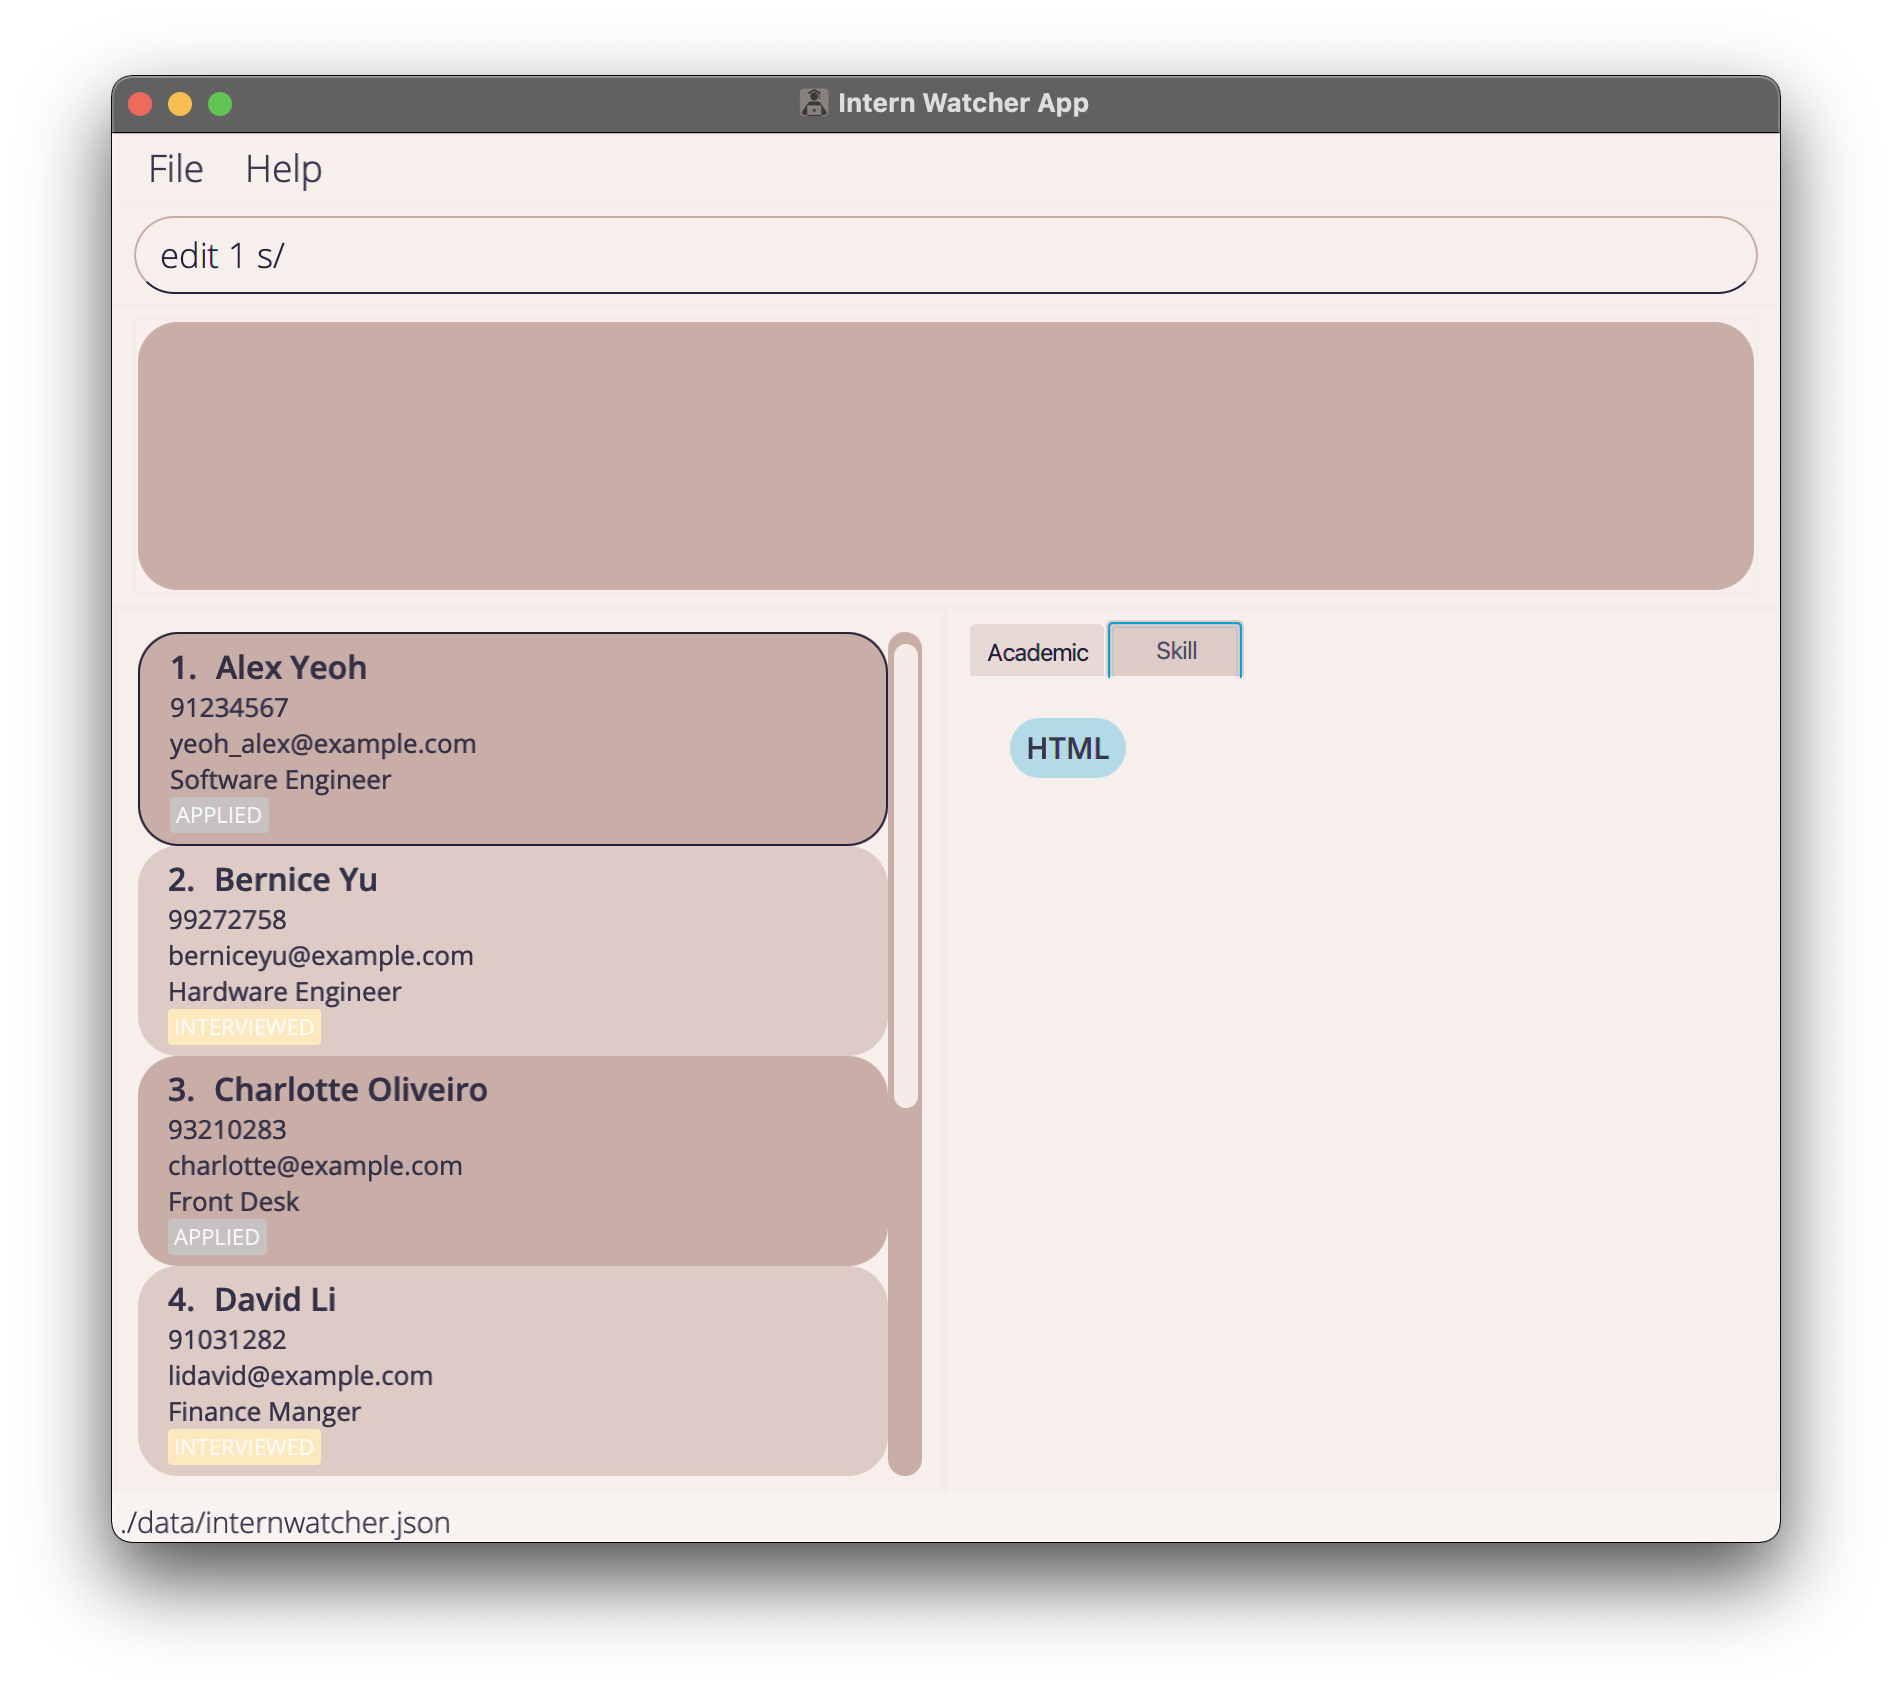
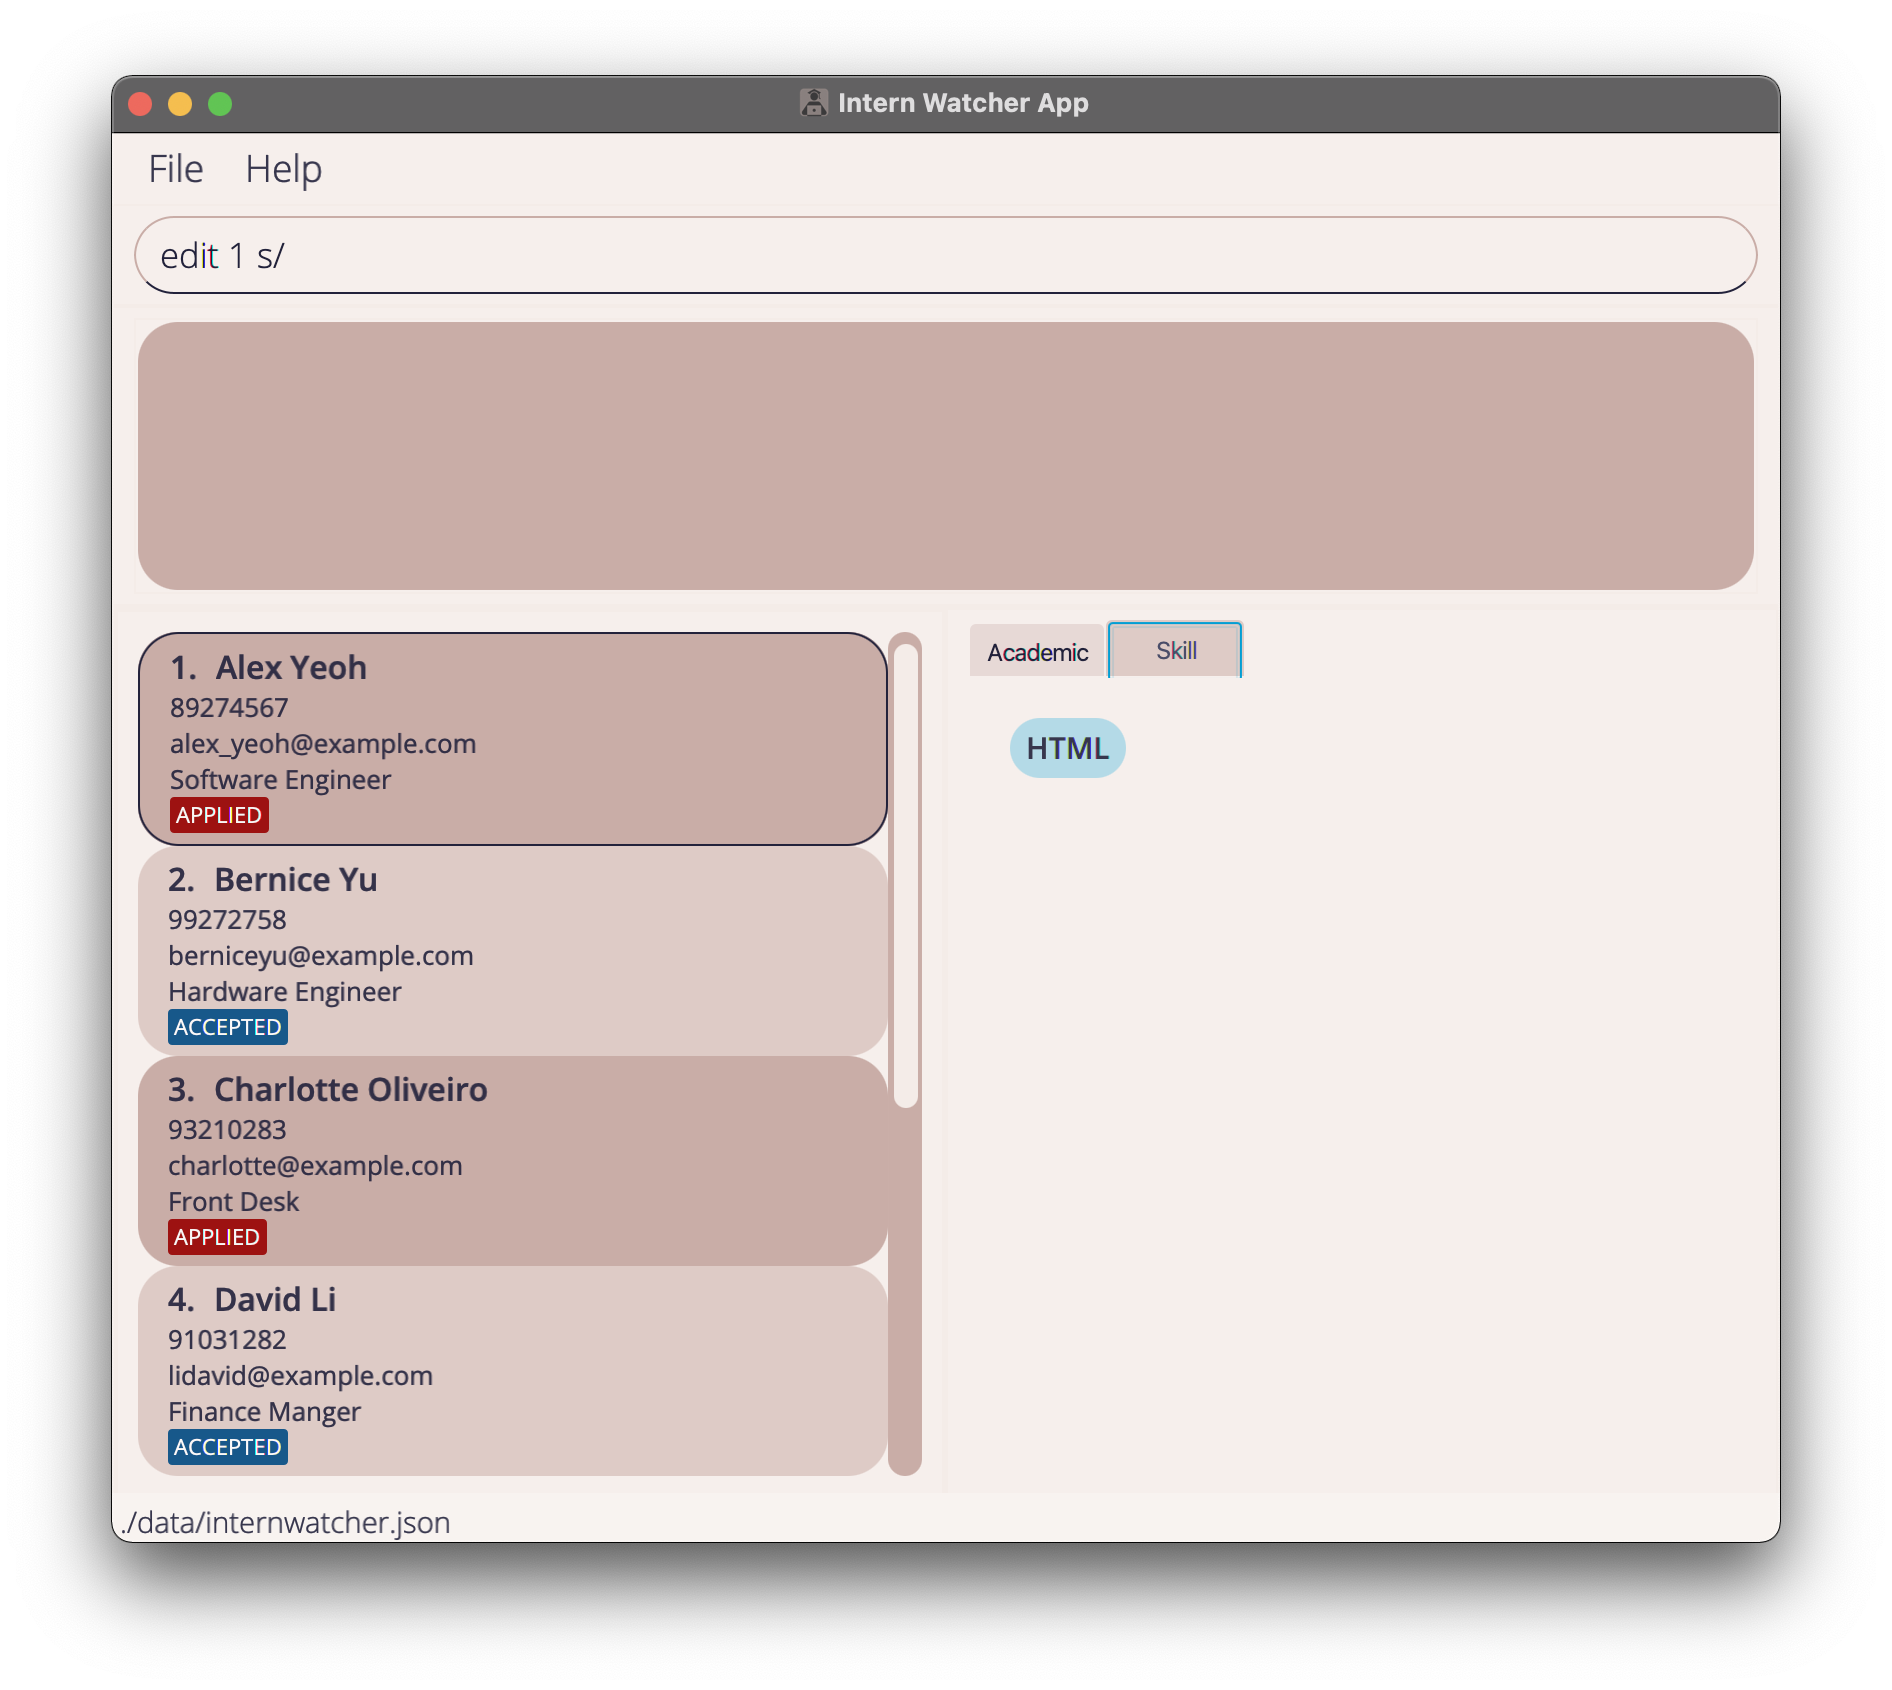
Update UG screenshots with new application status colours

diff --git a/docs/UserGuide.md b/docs/UserGuide.md
@@ -185,7 +185,7 @@ Format: `edit ALL a/APPLICATION_STATUS`
 
 
 Examples:
-*  `edit 1 p/91234567 e/yeoh_alex@example.com` Edits the phone number and email address of the 1st applicant to be `91234567` and `yeoh_alex@example.com` respectively.
+*  `edit 1 p/89274567 e/alex_yeoh@example.com` Edits the phone number and email address of the 1st applicant to be `89274567` and `alex_yeoh@example.com` respectively.
 
 |Command|Effect|
 |---|---|
@@ -197,7 +197,7 @@ Examples:
 |---|---|
 |<img src="images/EditSkillBefore.png" alt="drawing" />|<img src="images/EditSkillAfter.png" alt="drawing" />|
 
-*  `filter a/INTERVIEWED` followed by `edit ALL a/ACCEPTED` Updates all applicants with `INTERVIEWED` application status to have the `ACCEPTED` APPLICATION_STATUS.
+*  `filter a/APPLIED` followed by `edit ALL a/INTERVIEWED` Updates all applicants with `INTERVIEWED` application status to have the `ACCEPTED` APPLICATION_STATUS.
 
 |Command|Effect|
 |---|---|
@@ -303,7 +303,7 @@ Examples:
 |---|---|
 |<img src="images/RedoClearBefore.png" alt="drawing" />|<img src="images/RedoClearAfter.png" alt="drawing" />|
 
-* `redo` followed by `delete 2`. As the state after `delete` becomes the newest state, there are no undoable actions to be redone.
+* `delete 2` followed by `redo`. As the state after `delete` becomes the newest state, there are no undoable actions to be redone.
   ![ No action to redo](images/NoRedo.png)
 
 ### Exiting the program : `exit`
